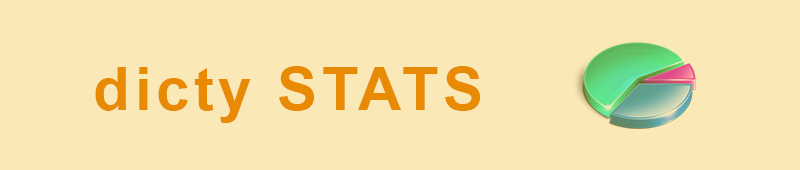
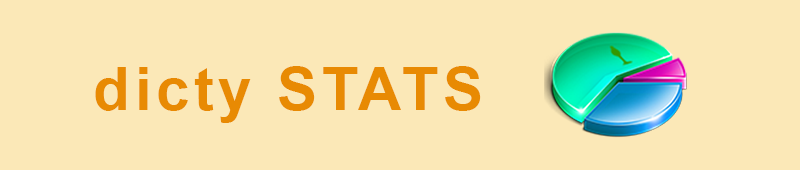
Updating images
Adding the dicty identity to all of them

#82

Changed region(s): [[0.6562, 0.1765, 0.875, 0.8235]]

diff --git a/app/views/explore/tutorial/index.html b/app/views/explore/tutorial/index.html
@@ -4,7 +4,7 @@
     <div class="row">
         <div class="techSubHeader"><h3>Explore</h3></div>
         <h1>Learn about Dicty</h1>
-        <img src="images/logoLearn.png">
+        <img src="images/logoLearnColor.png">
         <h6><em>Dictyostelium discoideum</em>: Model System in Motion</h6>
     </div>
 </div>
